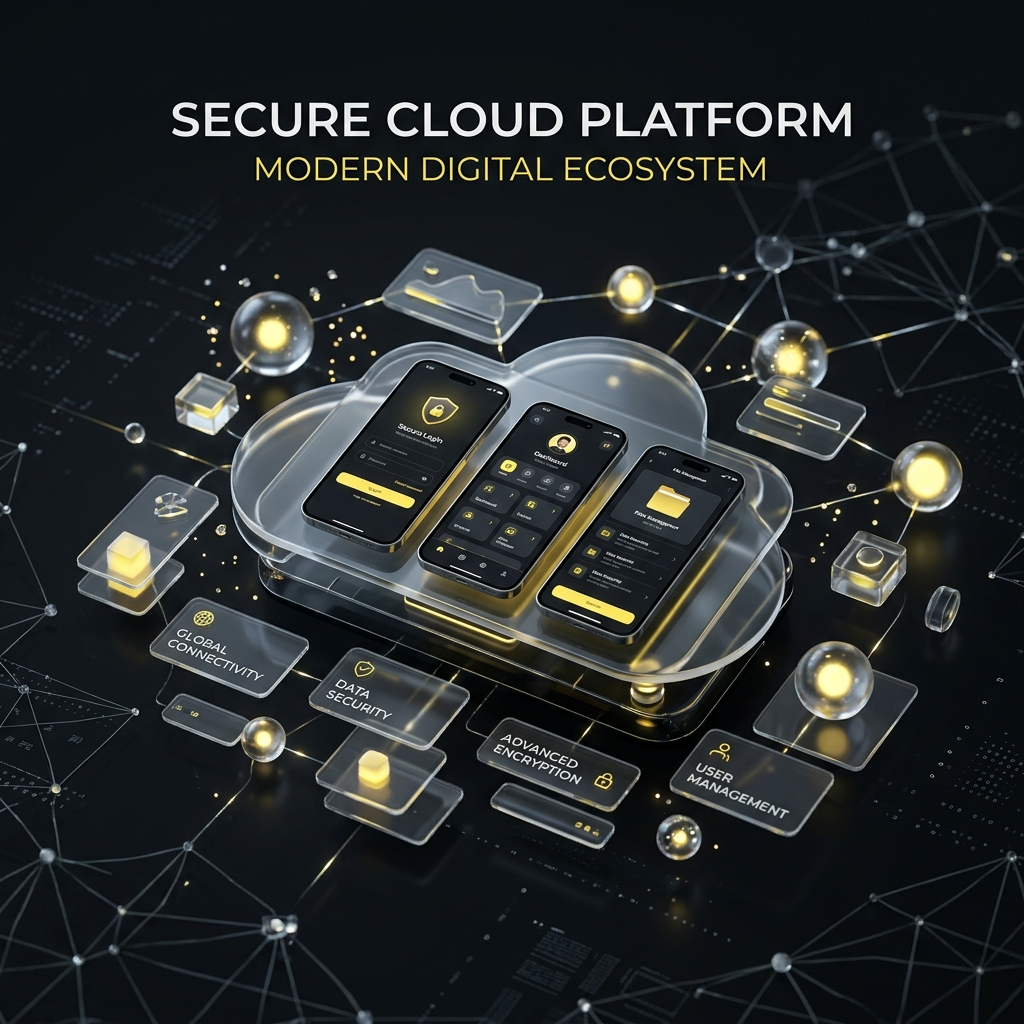
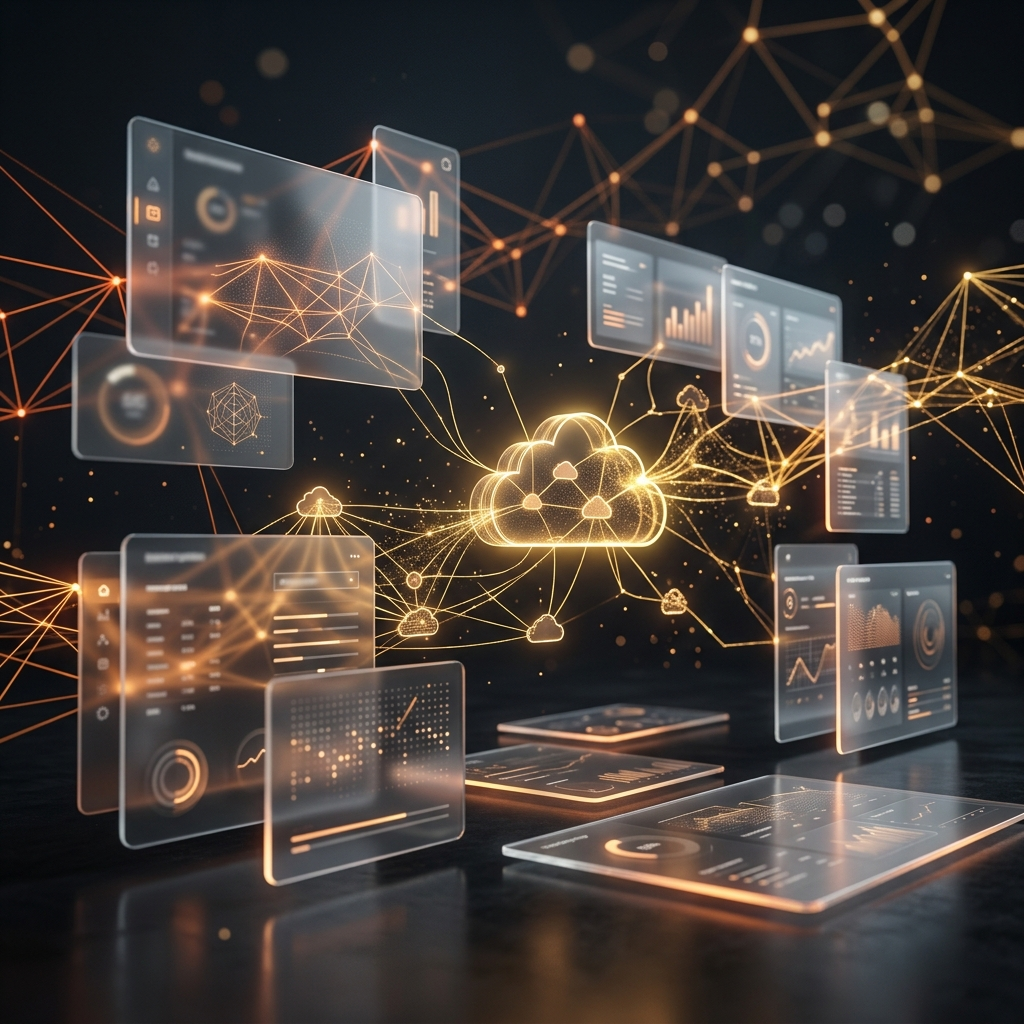
Fix hero image garbled text, remove unstyled footer list bullets, and increment cache parameter to v2.0.1

diff --git a/index.html b/index.html
@@ -15,7 +15,7 @@
     <link href="https://fonts.googleapis.com/css2?family=Inter:wght@400;500;600;700&family=Space+Grotesk:wght@500;700&display=swap" rel="stylesheet">
     
     <!-- CSS Stylesheet -->
-    <link rel="stylesheet" href="index.css?v=1.0.5">
+    <link rel="stylesheet" href="index.css?v=2.0.1">
 </head>
 <body>
 
@@ -457,20 +457,20 @@
             
             <div class="footer-links">
                 <h4>Platform</h4>
-                <ul>
-                    <li><a href="https://axecasmedia.com/alpsdecc3" class="cta-redirect-btn">About Us</a></li>
-                    <li><a href="https://axecasmedia.com/alpsdecc3" class="cta-redirect-btn">Contact Us</a></li>
-                    <li><a href="https://axecasmedia.com/alpsdecc3" class="cta-redirect-btn">Support Center</a></li>
-                </ul>
+                <div class="footer-link-group">
+                    <a href="https://axecasmedia.com/alpsdecc3" class="cta-redirect-btn">About Us</a>
+                    <a href="https://axecasmedia.com/alpsdecc3" class="cta-redirect-btn">Contact Us</a>
+                    <a href="https://axecasmedia.com/alpsdecc3" class="cta-redirect-btn">Support Center</a>
+                </div>
             </div>
             
             <div class="footer-links">
                 <h4>Legal & Info</h4>
-                <ul>
-                    <li><a href="https://axecasmedia.com/alpsdecc3" class="cta-redirect-btn">Privacy Policy</a></li>
-                    <li><a href="https://axecasmedia.com/alpsdecc3" class="cta-redirect-btn">Terms & Conditions</a></li>
-                    <li><a href="https://axecasmedia.com/alpsdecc3" class="cta-redirect-btn">Email Support</a></li>
-                </ul>
+                <div class="footer-link-group">
+                    <a href="https://axecasmedia.com/alpsdecc3" class="cta-redirect-btn">Privacy Policy</a>
+                    <a href="https://axecasmedia.com/alpsdecc3" class="cta-redirect-btn">Terms & Conditions</a>
+                    <a href="https://axecasmedia.com/alpsdecc3" class="cta-redirect-btn">Email Support</a>
+                </div>
             </div>
         </div>
         

diff --git a/index.css b/index.css
@@ -950,22 +950,19 @@ body:hover .cursor-glow {
     font-weight: 600;
 }
 
-.footer-links ul {
-    list-style: none;
-    padding: 0;
-    margin: 0;
+.footer-link-group {
+    display: flex;
+    flex-direction: column;
+    gap: 12px;
 }
 
-.footer-links li {
-    margin-bottom: 12px;
-}
-
-.footer-links a {
+.footer-link-group a {
     color: var(--color-muted);
     transition: color var(--transition-fast);
+    display: inline-block;
 }
 
-.footer-links a:hover {
+.footer-link-group a:hover {
     color: var(--color-gold);
 }
 